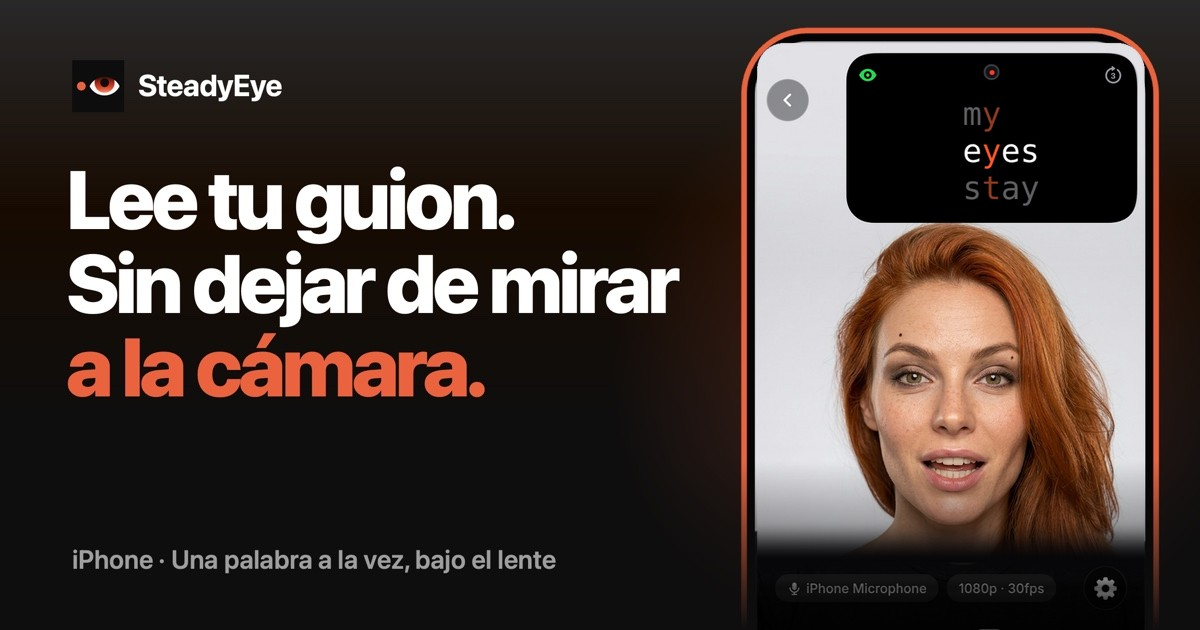
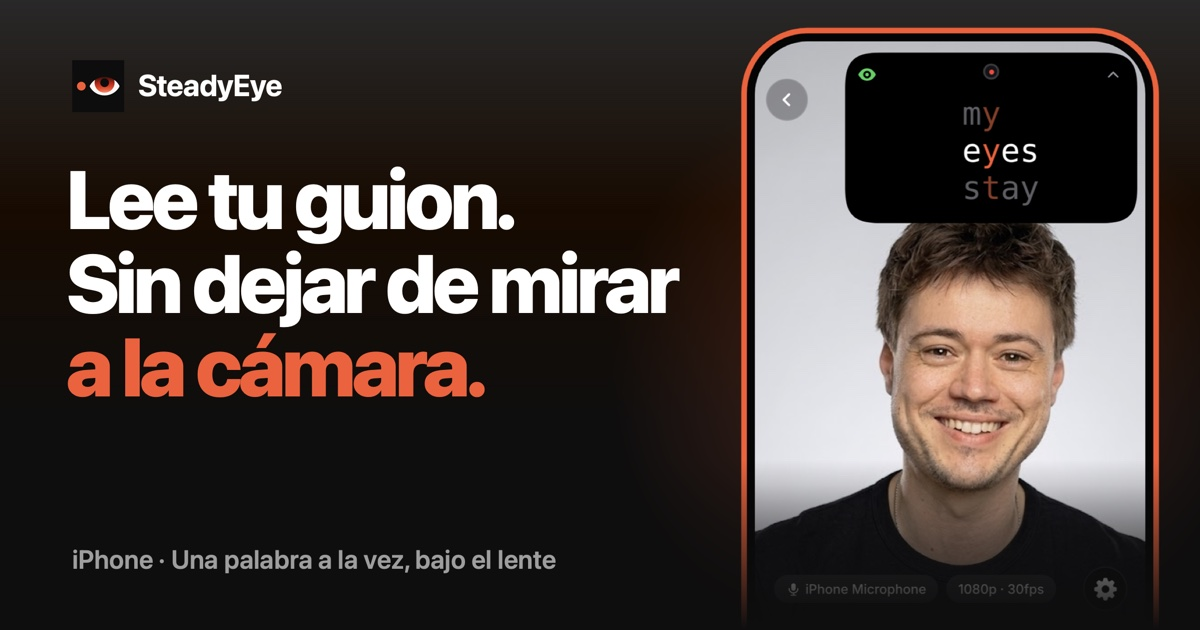
steadyeye: revert today's hero, OG and step 3 changes
Back to fdf9702 for now; to be redone later. Reverts ea735b3, 0fa5421,
ec72968 and 66df2fa.

diff --git a/src/i18n/steadyeye.ts b/src/i18n/steadyeye.ts
@@ -23,7 +23,7 @@ export type Copy = {
     h2: [string, string];
     s1: { h3: string; p: string; notesLabel: string; readyLabel: string; notes: string; ready: string[] };
     s2: { h3: string; p: string; overlay: string };
-    s3: { h3: string; p: string; one: string; two: string; three: string };
+    s3: { h3: string; p: string; one: string; three: string };
     s4: { h3: string; tag: string; p: string; original: string; studio: string; save: string };
     s5: { h3: string; p: string; toast: string };
   };
@@ -69,14 +69,14 @@ export const copy: Record<Lang, Copy> = {
         ready: ['Your landing page has five parts.', 'And most people get the proportions wrong.', 'Here is the formula.', 'Headline: five percent of the page.', 'Pain points: fifteen percent.', 'Benefits: twenty percent.'],
       },
       s2: { h3: 'Hit record.', p: 'Front camera in up to 4K, stabilized, with whatever mic you have — AirPods, wired or DJI.', overlay: 'One take. Done.' },
-      s3: { h3: 'Read without looking away.', p: 'Words appear one at a time right under the lens — or two or three lines, if you like more context. Your eyes stay on the camera.', one: '1 line', two: '2 lines', three: '3 lines' },
+      s3: { h3: 'Read without looking away.', p: 'Words appear one at a time right under the lens — or three lines, if you like more context. Your eyes stay on the camera.', one: '1 line', three: '3 lines' },
       s4: { h3: 'Make it sound like a studio.', tag: 'New', p: 'One tap removes background noise and echo and evens out your voice. Flip between the original and Studio to hear the difference.', original: 'Original', studio: 'Studio', save: 'Save to Camera Roll' },
       s5: { h3: 'Export and post.', p: 'Save the take to your Camera Roll and post it wherever your audience is. No watermark with a subscription.', toast: 'Saved to Camera Roll' },
     },
     features: {
       h2: ['Everything for', 'one clean take.'],
       items: [
-        { icon: 'word', title: 'One word, under the lens.', body: 'Your script appears right where the camera is. Prefer more context? Switch to two or three lines.' },
+        { icon: 'word', title: 'One word, under the lens.', body: 'Your script appears right where the camera is. Prefer more context? Switch to three lines.' },
         { icon: 'eye', title: 'Eye-contact score.', body: 'After every take, see how much of it you held the camera’s gaze.' },
         { icon: 'wave', title: 'Studio sound.', body: 'Your voice without background noise or echo. One tap after recording.', tag: 'New' },
         { icon: 'sparkles', title: 'AI scripts.', body: 'Paste messy notes or just a topic. Get a script that’s ready to read aloud.' },
@@ -89,7 +89,7 @@ export const copy: Record<Lang, Copy> = {
     faq: {
       h2: ['Questions,', 'answered.'],
       items: [
-        ['What is SteadyEye?', 'SteadyEye is a teleprompter app for iPhone. It shows your script one word at a time (or two or three lines, if you prefer) right under the front camera, so you keep eye contact with your audience while you read.'],
+        ['What is SteadyEye?', 'SteadyEye is a teleprompter app for iPhone. It shows your script one word at a time (or three lines, if you prefer) right under the front camera, so you keep eye contact with your audience while you read.'],
         ['How is it different from a scrolling teleprompter?', 'A scrolling teleprompter makes your eyes scan across lines, and viewers notice. SteadyEye keeps every word in the same spot under the lens, so your gaze stays on the camera for the whole take.'],
         ['Is SteadyEye free?', 'You can download SteadyEye and start recording for free. A subscription removes the watermark and adds more AI scripts and Studio Sound enhancements.'],
         ['Can I use it for TikTok, Reels, Shorts and YouTube?', 'Yes. Record with the front camera in up to 4K, then save the take to your Camera Roll and post it wherever your audience is.'],
@@ -104,7 +104,7 @@ export const copy: Record<Lang, Copy> = {
     words: ['SteadyEye', 'keeps', 'your', 'eyes', 'right', 'under', 'the', 'lens.', 'One', 'word', 'at', 'a', 'time.', 'No', 'more', 'wandering', 'eyes.'],
     ld: {
       description: 'Teleprompter app for iPhone that shows your script one word at a time right under the front camera, so you keep eye contact. AI scripts, studio sound, 4K recording.',
-      featureList: ['Word-by-word teleprompter under the camera lens', 'Two- and three-line modes', 'Eye-contact score', 'AI script writing and optimization', 'Studio Sound noise and echo removal', '4K stabilized front-camera recording', 'External microphones', 'Any language, including RTL and CJK'],
+      featureList: ['Word-by-word teleprompter under the camera lens', 'Three-line mode', 'Eye-contact score', 'AI script writing and optimization', 'Studio Sound noise and echo removal', '4K stabilized front-camera recording', 'External microphones', 'Any language, including RTL and CJK'],
     },
   },
 
@@ -142,14 +142,14 @@ export const copy: Record<Lang, Copy> = {
         ready: ['Uma landing page tem cinco partes.', 'E quase todo mundo erra a proporção.', 'Aqui vai a fórmula.', 'Título: cinco por cento da página.', 'Dores: quinze por cento.', 'Benefícios: vinte por cento.'],
       },
       s2: { h3: 'Aperte o REC.', p: 'Câmera frontal em até 4K, com estabilização e o microfone que você tiver: AirPods, com fio ou DJI.', overlay: 'Gravou de primeira.' },
-      s3: { h3: 'Leia sem desviar o olhar.', p: 'As palavras aparecem uma de cada vez, logo abaixo da lente. Quer mais contexto? Mude para duas ou três linhas. Seu olhar continua na câmera.', one: '1 linha', two: '2 linhas', three: '3 linhas' },
+      s3: { h3: 'Leia sem desviar o olhar.', p: 'As palavras aparecem uma de cada vez, logo abaixo da lente. Quer mais contexto? Mude para três linhas. Seu olhar continua na câmera.', one: '1 linha', three: '3 linhas' },
       s4: { h3: 'Som de estúdio num toque.', tag: 'Novo', p: 'Tire o ruído de fundo e o eco e deixe a voz equilibrada com um toque. Alterne entre o original e o Studio e ouça a diferença.', original: 'Original', studio: 'Studio', save: 'Salvar na galeria' },
       s5: { h3: 'Salve e poste.', p: 'O vídeo vai para a sua galeria, pronto para o Reels, TikTok, Shorts ou YouTube. Com a assinatura, sem marca d’água.', toast: 'Salvo na galeria' },
     },
     features: {
       h2: ['Tudo para gravar', 'de primeira.'],
       items: [
-        { icon: 'word', title: 'Uma palavra, embaixo da lente.', body: 'O roteiro aparece onde a câmera está. Prefere mais contexto? Use duas ou três linhas.' },
+        { icon: 'word', title: 'Uma palavra, embaixo da lente.', body: 'O roteiro aparece onde a câmera está. Prefere mais contexto? Use três linhas.' },
         { icon: 'eye', title: 'Nota de contato visual.', body: 'Depois de cada take, veja quanto tempo você manteve o olhar na câmera.' },
         { icon: 'wave', title: 'Som de estúdio.', body: 'Sua voz sem ruído de fundo nem eco. Um toque depois de gravar.', tag: 'Novo' },
         { icon: 'sparkles', title: 'Roteiros com IA.', body: 'Cole anotações soltas ou só o tema. Saia com um roteiro pronto para falar.' },
@@ -162,7 +162,7 @@ export const copy: Record<Lang, Copy> = {
     faq: {
       h2: ['Perguntas', 'frequentes.'],
       items: [
-        ['O que é o SteadyEye?', 'É um app de teleprompter para iPhone. Ele mostra o seu roteiro palavra por palavra (ou em duas ou três linhas, se preferir) bem embaixo da câmera frontal, para você ler sem perder o contato visual com quem assiste.'],
+        ['O que é o SteadyEye?', 'É um app de teleprompter para iPhone. Ele mostra o seu roteiro palavra por palavra (ou em três linhas, se preferir) bem embaixo da câmera frontal, para você ler sem perder o contato visual com quem assiste.'],
         ['Qual a diferença para um teleprompter comum?', 'No teleprompter tradicional, o texto rola e seus olhos acompanham as linhas — e isso aparece no vídeo. No SteadyEye, cada palavra surge sempre no mesmo ponto, logo abaixo da lente. Seu olhar fica na câmera o take inteiro.'],
         ['O SteadyEye é grátis?', 'Você baixa e começa a gravar de graça. A assinatura tira a marca d’água e libera mais roteiros com IA e mais melhorias de Som de estúdio.'],
         ['Dá para usar no Reels, TikTok, Shorts e YouTube?', 'Dá, sim. Grave com a câmera frontal em até 4K, salve na galeria e poste onde estiver o seu público.'],
@@ -177,7 +177,7 @@ export const copy: Record<Lang, Copy> = {
     words: ['SteadyEye', 'mantém', 'seu', 'olhar', 'bem', 'embaixo', 'da', 'lente.', 'Uma', 'palavra', 'de', 'cada', 'vez.', 'Nada', 'de', 'olhar', 'perdido.'],
     ld: {
       description: 'App de teleprompter para iPhone que mostra o roteiro palavra por palavra embaixo da câmera frontal, para você manter o contato visual. Roteiros com IA, som de estúdio e gravação em 4K.',
-      featureList: ['Teleprompter palavra por palavra embaixo da lente', 'Modos de duas e três linhas', 'Nota de contato visual', 'Roteiros escritos e ajustados por IA', 'Som de estúdio: remoção de ruído e eco', 'Gravação em 4K com estabilização na câmera frontal', 'Microfones externos', 'Qualquer idioma, inclusive árabe, chinês, japonês e coreano'],
+      featureList: ['Teleprompter palavra por palavra embaixo da lente', 'Modo de três linhas', 'Nota de contato visual', 'Roteiros escritos e ajustados por IA', 'Som de estúdio: remoção de ruído e eco', 'Gravação em 4K com estabilização na câmera frontal', 'Microfones externos', 'Qualquer idioma, inclusive árabe, chinês, japonês e coreano'],
     },
   },
 
@@ -215,14 +215,14 @@ export const copy: Record<Lang, Copy> = {
         ready: ['Una landing page tiene cinco partes.', 'Y casi todos se equivocan en la proporción.', 'Esta es la fórmula.', 'Título: cinco por ciento de la página.', 'Dolores: quince por ciento.', 'Beneficios: veinte por ciento.'],
       },
       s2: { h3: 'Dale a grabar.', p: 'Cámara frontal hasta 4K, con estabilización y el micrófono que tengas: AirPods, con cable o DJI.', overlay: 'Sale a la primera.' },
-      s3: { h3: 'Lee sin apartar la vista.', p: 'Las palabras aparecen una a una, justo debajo del lente. ¿Quieres más contexto? Cambia a dos o tres líneas. Tu mirada sigue en la cámara.', one: '1 línea', two: '2 líneas', three: '3 líneas' },
+      s3: { h3: 'Lee sin apartar la vista.', p: 'Las palabras aparecen una a una, justo debajo del lente. ¿Quieres más contexto? Cambia a tres líneas. Tu mirada sigue en la cámara.', one: '1 línea', three: '3 líneas' },
       s4: { h3: 'Sonido de estudio, con un toque.', tag: 'Nuevo', p: 'Quita el ruido de fondo y el eco, y empareja tu voz con un solo toque. Cambia entre el original y Studio para escuchar la diferencia.', original: 'Original', studio: 'Studio', save: 'Guardar en la galería' },
       s5: { h3: 'Guarda y publica.', p: 'El video se guarda en tu galería, listo para Reels, TikTok, Shorts o YouTube. Con la suscripción, sin marca de agua.', toast: 'Guardado en la galería' },
     },
     features: {
       h2: ['Todo para grabar', 'a la primera.'],
       items: [
-        { icon: 'word', title: 'Una palabra, bajo el lente.', body: 'Tu guion aparece donde está la cámara. ¿Prefieres más contexto? Usa dos o tres líneas.' },
+        { icon: 'word', title: 'Una palabra, bajo el lente.', body: 'Tu guion aparece donde está la cámara. ¿Prefieres más contexto? Usa tres líneas.' },
         { icon: 'eye', title: 'Puntaje de contacto visual.', body: 'Después de cada toma, ve cuánto tiempo sostuviste la mirada a la cámara.' },
         { icon: 'wave', title: 'Sonido de estudio.', body: 'Tu voz sin ruido de fondo ni eco. Un toque después de grabar.', tag: 'Nuevo' },
         { icon: 'sparkles', title: 'Guiones con IA.', body: 'Pega notas sueltas o solo el tema. Obtén un guion listo para decir en voz alta.' },
@@ -235,7 +235,7 @@ export const copy: Record<Lang, Copy> = {
     faq: {
       h2: ['Preguntas', 'frecuentes.'],
       items: [
-        ['¿Qué es SteadyEye?', 'Es una app de teleprompter para iPhone. Te muestra el guion palabra por palabra (o en dos o tres líneas, si lo prefieres) justo debajo de la cámara frontal, para que leas sin perder el contacto visual con tu audiencia.'],
+        ['¿Qué es SteadyEye?', 'Es una app de teleprompter para iPhone. Te muestra el guion palabra por palabra (o en tres líneas, si lo prefieres) justo debajo de la cámara frontal, para que leas sin perder el contacto visual con tu audiencia.'],
         ['¿En qué se diferencia de un teleprompter normal?', 'En un teleprompter tradicional el texto se desplaza y tus ojos siguen las líneas, y eso se nota en el video. En SteadyEye cada palabra aparece siempre en el mismo punto, justo debajo del lente, así tu mirada se queda en la cámara toda la toma.'],
         ['¿SteadyEye es gratis?', 'Lo descargas y empiezas a grabar gratis. La suscripción quita la marca de agua y te da más guiones con IA y más mejoras de Sonido de estudio.'],
         ['¿Sirve para Reels, TikTok, Shorts y YouTube?', 'Sí. Graba con la cámara frontal hasta en 4K, guarda el video en tu galería y publícalo donde esté tu audiencia.'],
@@ -250,7 +250,7 @@ export const copy: Record<Lang, Copy> = {
     words: ['SteadyEye', 'mantiene', 'tu', 'mirada', 'justo', 'bajo', 'el', 'lente.', 'Una', 'palabra', 'a', 'la', 'vez.', 'Adiós', 'a', 'la', 'mirada', 'perdida.'],
     ld: {
       description: 'App de teleprompter para iPhone que te muestra el guion palabra por palabra justo debajo de la cámara frontal, para que mantengas el contacto visual. Guiones con IA, sonido de estudio y grabación en 4K.',
-      featureList: ['Teleprompter palabra por palabra bajo el lente', 'Modos de dos y tres líneas', 'Puntaje de contacto visual', 'Guiones escritos y optimizados con IA', 'Sonido de estudio: eliminación de ruido y eco', 'Grabación 4K estabilizada con la cámara frontal', 'Micrófonos externos', 'Cualquier idioma, incluidos árabe, chino, japonés y coreano'],
+      featureList: ['Teleprompter palabra por palabra bajo el lente', 'Modo de tres líneas', 'Puntaje de contacto visual', 'Guiones escritos y optimizados con IA', 'Sonido de estudio: eliminación de ruido y eco', 'Grabación 4K estabilizada con la cámara frontal', 'Micrófonos externos', 'Cualquier idioma, incluidos árabe, chino, japonés y coreano'],
     },
   },
 };

diff --git a/src/styles/steadyeye.css b/src/styles/steadyeye.css
@@ -73,8 +73,6 @@ a { color: inherit; }
 .se-hero-shot { position: relative; }
 .se-hero-pill {
   position: absolute; left: 27.05%; width: 65.19%; top: 9.82%; height: 20.18%;
-  /* 30 px bottom corners keep the box inside the photo pill's rounded bottom */
-  border-radius: 0 0 6.4% 6.4% / 0 0 13.5% 13.5%;
   background: #000; container-type: inline-size; display: flex; align-items: center;
 }
 .se-hero-pill .se-lines { width: 100%; }
@@ -102,8 +100,7 @@ a { color: inherit; }
 .se-chip .se-eye { width: 20px; height: 20px; }
 .se-rec { width: 18px; height: 18px; border-radius: 50%; background: #2c2c2e; position: relative; }
 .se-rec::after { content: ''; position: absolute; inset: 6px; border-radius: 50%; background: #ff3b30; }
-.se-lc { height: 20px; width: auto; flex: none; color: #636366; margin-right: 2px; }
-.se-lc text { font: 700 200px/1 -apple-system, BlinkMacSystemFont, 'Inter', sans-serif; fill: currentColor; text-anchor: middle; dominant-baseline: central; }
+.se-chev { width: 10px; height: 10px; border-right: 2px solid #636366; border-bottom: 2px solid #636366; transform: rotate(45deg) translate(-2px, -2px); margin-right: 4px; }
 /* The focus letter takes the middle column, centred under the camera dot. */
 .se-line {
   display: grid; grid-template-columns: minmax(0, 1fr) auto minmax(0, 1fr);
@@ -153,14 +150,9 @@ a { color: inherit; }
   .se-how-visual { zoom: 0.7; justify-self: center; width: 70%; }
 }
 
-/* 03: 1 and 2 lines stacked on the left, 3 lines full height on the right */
-.se-how .se-modes { grid-template-columns: 1fr 1fr; grid-template-rows: 1fr 1fr; gap: 14px; }
-.se-how .se-mode-3 { grid-column: 2; grid-row: 1 / span 2; }
-/* No grey backdrop here: each pill is the card, the words centred below the top row. */
-.se-how .se-stage { min-height: 0; padding: 0; background: none; }
-.se-how .se-pill { height: 100%; display: flex; flex-direction: column; padding: 12px 14px 16px; border-radius: 22px; box-shadow: 0 0 0 1px var(--se-line); }
-.se-how .se-lines { flex: 1; display: flex; flex-direction: column; justify-content: center; }
-.se-how .se-line { font-size: min(10cqi, 2.5rem); }
+/* 03: the two prompter cards, stacked */
+.se-how .se-modes { grid-template-columns: 1fr; grid-template-rows: 1fr 1fr; gap: 14px; }
+.se-how .se-stage { min-height: 0; }
 
 /* 01: before / after — raw notes above, the AI's read-aloud version below */
 .se-editor { background: #111; border-radius: 22px; box-shadow: 0 0 0 1px var(--se-line); }
